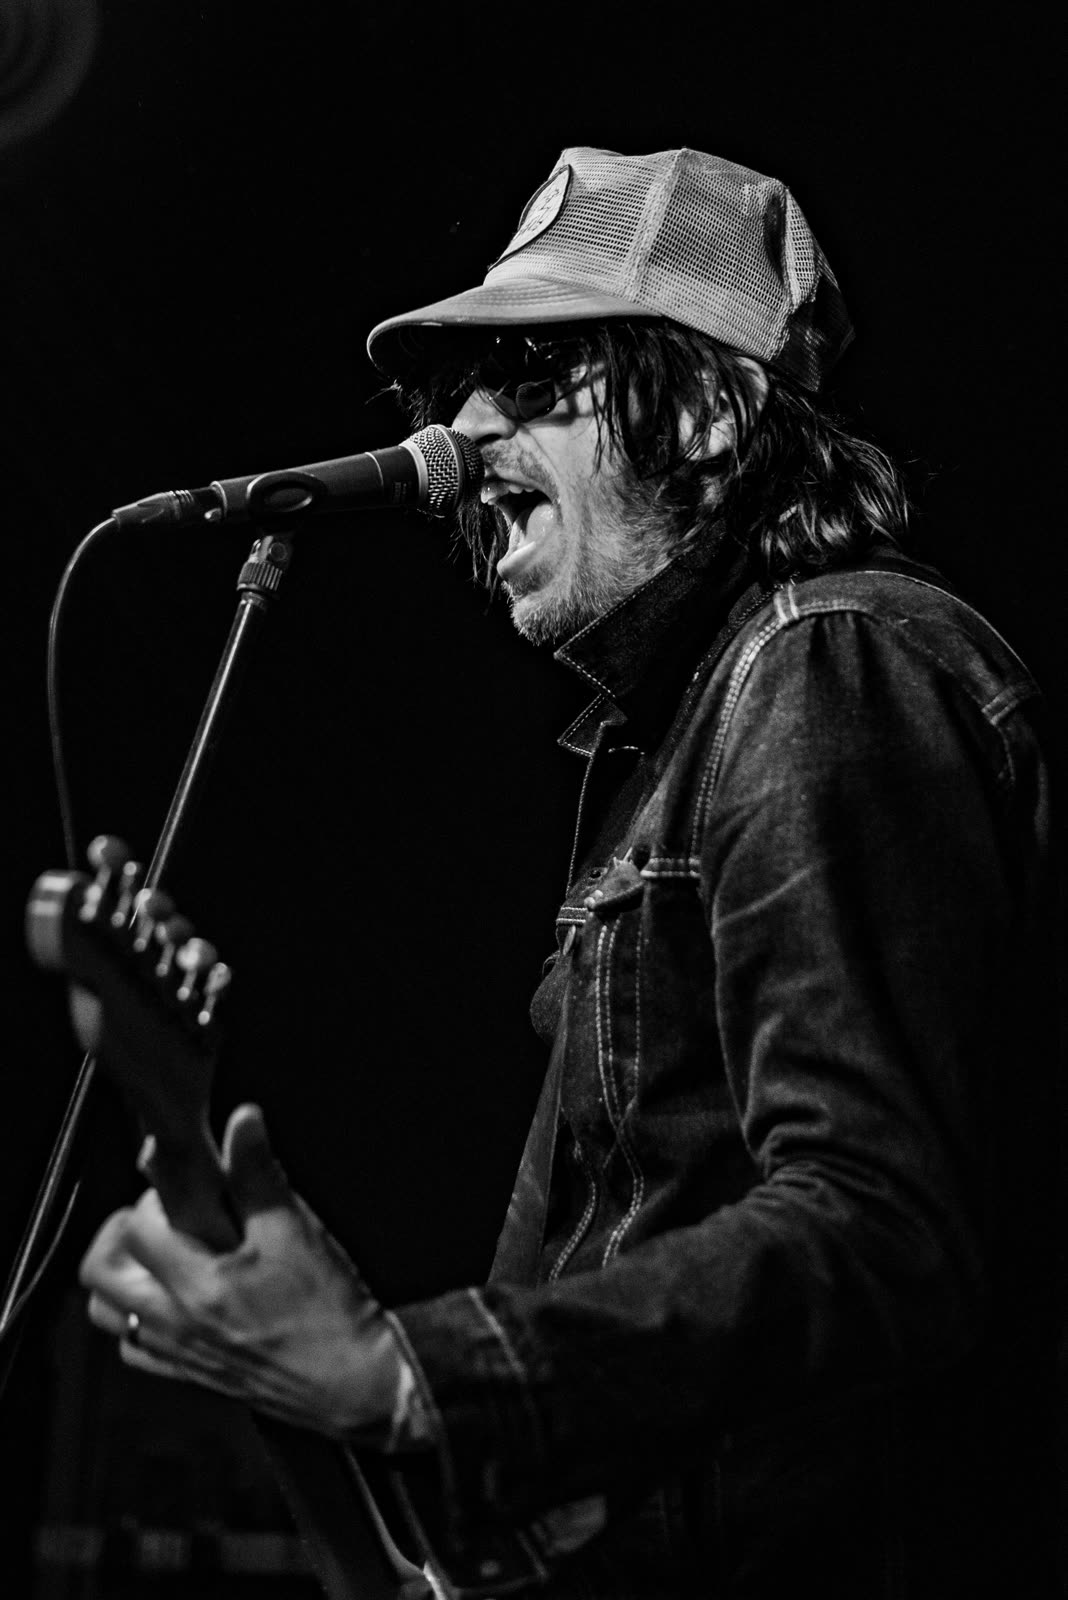
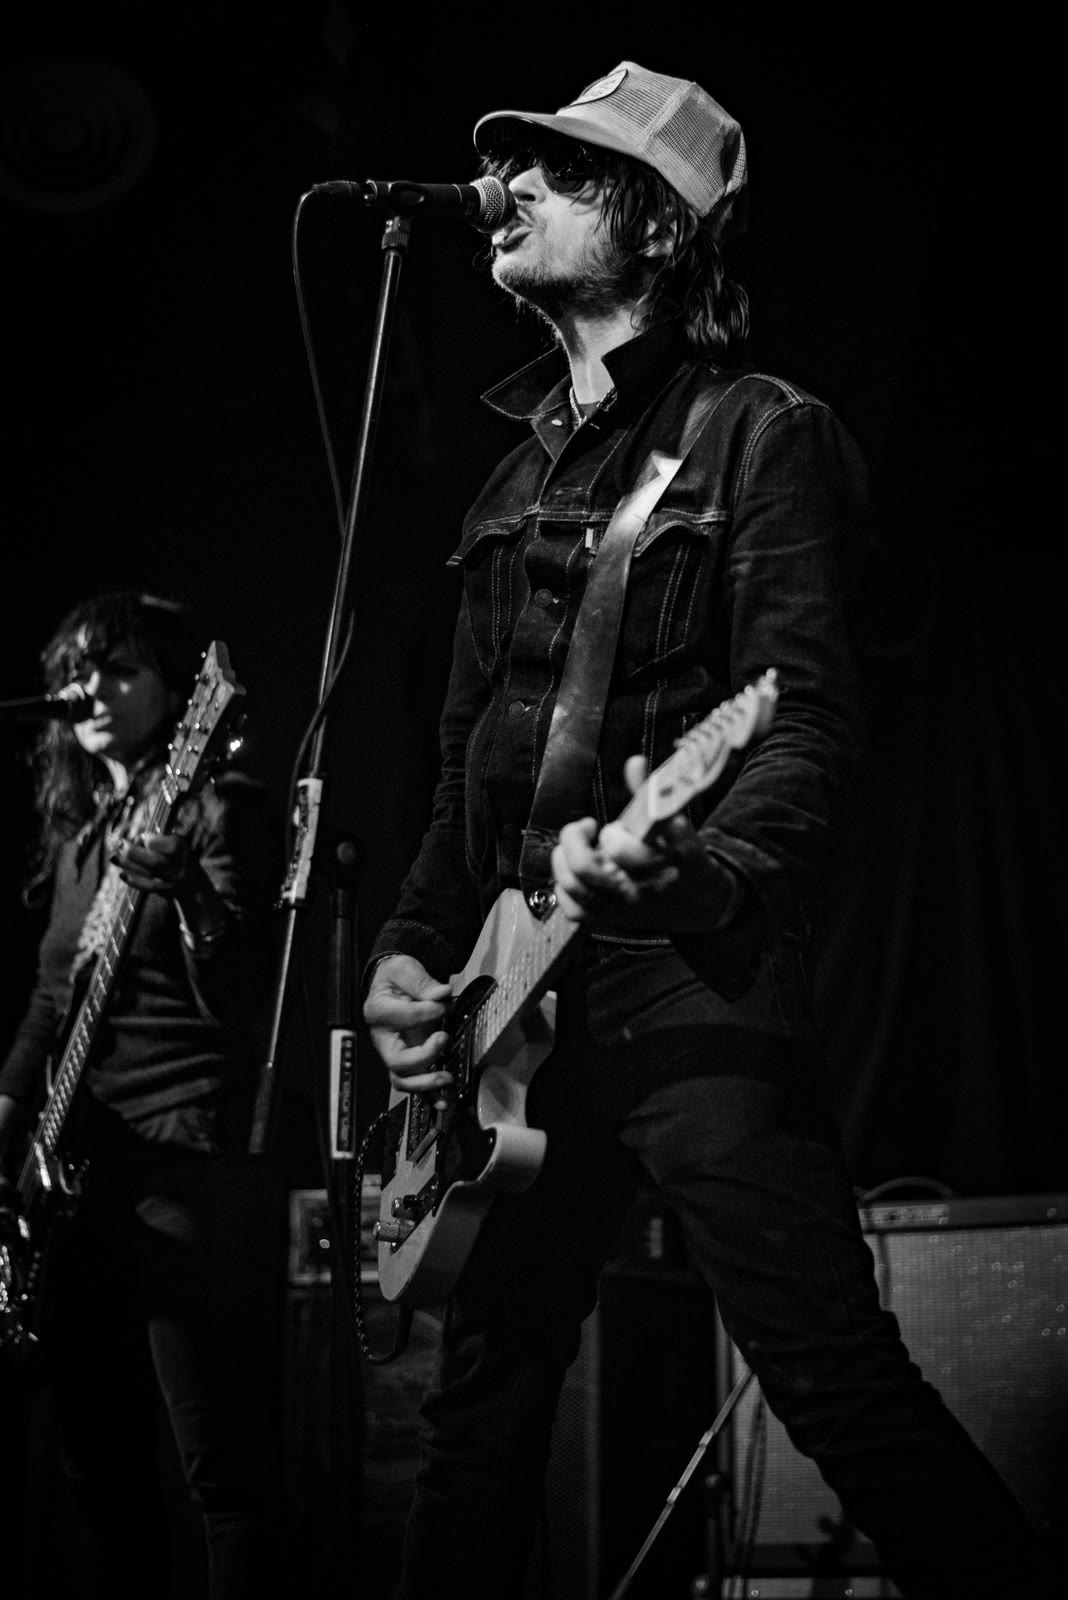
Konzertfoto The Hangmen ausgetauscht
konzert-01 zeigt das neue Foto des Sängers mit Cap und Sonnenbrille; Alt-Text angepasst.

diff --git a/src/main/java/de/afterimage/web/publicsite/HomePhotos.java b/src/main/java/de/afterimage/web/publicsite/HomePhotos.java
@@ -24,7 +24,7 @@ final class HomePhotos {
     private static final Band FAEHRMANN = new Band("fur-den-fahrmann", "Für den Fährmann");
 
     private static final List<HomePhoto> PHOTOS = List.of(
-            new HomePhoto("konzert-01.jpg", 1068, 1600, "Sänger mit Cap und Sonnenbrille, Schwarzweiß", HANGMEN),
+            new HomePhoto("konzert-01.jpg", 1068, 1600, "Sänger mit Cap und Sonnenbrille am Mikrofon, dahinter eine zweite Person mit Gitarre, Schwarzweiß", HANGMEN),
             new HomePhoto("konzert-02.jpg", 1068, 1600, "Gitarrist im grünen und roten Bühnenlicht", HANGMEN),
             new HomePhoto("konzert-03.jpg", 1068, 1600, "Sänger mit gelber Mütze beugt sich zum Mikrofon", FAEHRMANN),
             new HomePhoto("konzert-04.jpg", 1600, 1068, "Blaue Bühne, Publikum von hinten", REDESTRUCTION),
